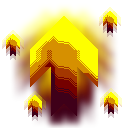
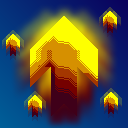
bootyfull cards

diff --git a/main.py b/main.py
@@ -49,7 +49,8 @@ BLACK = (0  ,0  ,0  )
 RED = (255  ,0  ,0  )
 GREEN = (0  ,255  ,0  )
 BLUE = (0  ,0  ,255  )
-line_text_size = "abcdefghijklmnopqrstu"
+BRIGHT_YELLOW = (250, 250, 135)
+line_text_size = "abcdefghijklmnopqrs"
 VOLUME_DO_JOGO = 1 # 0 a 1
 
 LISTA_DE_CARTAS = []
@@ -127,6 +128,7 @@ class obj_jogador(object):
         self.atk_delay = 16 # tempo inicial para o próximo ataque, em frames (meio segundo a 64 fps).
         self.knockback = 1.25 #knockback aplicado ao inimigo
         self.knockresi = 1 #resistência ao knockback: 1 = nenhuma resitência; 2 = 50% resistência; 3 = 66% de resistência e assim por diante.
+        self.dmgres = 1
         self.enemy = self #Plottwistico
         self.isAtacking = False  #está atacando?
         self.isCrouch = False #está agachado?
@@ -196,7 +198,7 @@ class obj_jogador(object):
         if self.invtime <= 0 or self.ATKESQUIVA:
             self.hspeed += knk[0]/self.knockresi
             self.vspeed += knk[1]/self.knockresi
-            self.Hp -= d
+            self.Hp -= d*self.dmgres
             self.unabletime = int( ( (knk[0]**2 + knk[1]**2)**(1/2) )*10/self.knockresi)
             self.invtime = self.unabletime * 5/3
             if self.NO_SEE == True:
@@ -599,11 +601,15 @@ class carta(object):
     def __init__(self,x,y,tipo_,id_):
         #Caracteristicas do obj definidas na criação
         self.x = x
+        self.x_ = x
         self.y = y
+        self.y_ = y
         self.id_ = id_
         self.width = 320
         self.height = 460
-        self.card_sprite = pg.Rect(self.x,self.y,self.width,self.height)
+        #pg.Rect(self.x,self.y,self.width,self.height)
+        self.card_sprite = pg.transform.scale(pg.image.load('Graphics/cards/card.png').convert_alpha(), (320, 460))
+        self.current_card = self.card_sprite
         self.sprite = pg.image.load(ctxt.CARDS_IMAGES.get(tipo_)).convert_alpha()
         self.tipo_ = tipo_
         self.txt = ctxt.CARDS_DESCRIPTIONS.get(tipo_)
@@ -614,31 +620,28 @@ class carta(object):
         #Ajeitando o texto
 
     def draw(self): #função que desenha o obj na tela
-
+        sc_ = (1 + (self.sc - 1)*(card_selected == self.id_))
         #Desenhando o fundo da carta
-        self.card_sprite.width = self.width*(1 + (self.sc - 1)*(card_selected == self.id_))
-        self.card_sprite.height = self.height*(1 + (self.sc - 1)*(card_selected == self.id_))
-        self.card_sprite.x = self.x - self.width*(self.sc - 1)*(card_selected == self.id_)/2
-        self.card_sprite.y = self.y - self.height*(self.sc - 1)*(card_selected == self.id_)/2
-        pg.draw.rect(window , WHITE ,self.card_sprite)
+        self.current_card = pg.transform.scale(self.card_sprite, (320*sc_, 460*sc_))
+        self.x = self.x_ - sc_/2
+        self.y = self.y_ - sc_/2
+        window.blit(self.current_card, (self.x, self.y))
 
         #Desenhando a imagem da carta
         if self.sprite != None:
 
             #Modifica as dimensões do sprite
-            sprite_sc = pg.transform.scale(self.sprite,
-            (int(self.sprite.get_width()*self.card_sprite.width/self.width),
-            int(self.sprite.get_height()*self.card_sprite.height/self.height)))
+            sprite_sc = pg.transform.scale(self.sprite, (self.sprite.get_width()*sc_*1.5, self.sprite.get_height()*sc_*1.5))
 
-            window.blit(sprite_sc, (self.card_sprite.x + self.card_sprite.width/2 - sprite_sc.get_width()/2,
-            self.card_sprite.y + self.card_sprite.height/3.2 - sprite_sc.get_height()/2))
+            window.blit(sprite_sc, (self.x + sc_*self.card_sprite.get_width()/2 - sprite_sc.get_width()/2,
+            self.y + sc_*self.card_sprite.get_height()/3.2 - sprite_sc.get_height()/2))
 
         #Desenhando a descrição da carta
-        fnt_sc = int((self.card_sprite.width/self.width) + (2 - self.sc)) - 1
+        fnt_sc = int((self.card_sprite.get_width()/self.width) + (2 - self.sc)) - 1
 
-        draw_text(self.txt,self.card_sprite.x + self.card_sprite.width/2,
-        self.card_sprite.y + self.card_sprite.height/2 + 70,
-        color_ = BLACK,font_ = fnt_comicsans[fnt_sc])
+        draw_text(self.txt,self.x + sc_*self.card_sprite.get_width()/2,
+        self.y + sc_*self.card_sprite.get_height()*3/5,
+        color_ = BRIGHT_YELLOW, font_ = fnt_comicsans[fnt_sc], centered_ = True, sc_ = sc_)
 
 class effect(object):
     def __init__(self,spr,x,y,alive_time,
@@ -672,7 +675,7 @@ class effect(object):
         else:
             window.blit(self.sprite, (self.x + camera.x, self.y + camera.y))
 
-def draw_text(txt_,x_,y_,font_ = fnt_comicsans[4],color_ = WHITE,centered_ = True):
+def draw_text(txt_,x_,y_,font_ = fnt_comicsans[4],color_ = WHITE,centered_ = True, sc_ = 1):
     #if "\n" in txt_:
 
         #IT HAS LINE BREAKS; (╯°□°)╯︵ ┻━┻
@@ -682,7 +685,7 @@ def draw_text(txt_,x_,y_,font_ = fnt_comicsans[4],color_ = WHITE,centered_ = Tru
         i = 0 #n line
         str_ = "" #current string with no line breaks
         f_str_ = []
-        print('startloop')
+        #print('startloop')
         g = 0
         while i-g <= t_:
             '''
@@ -701,17 +704,19 @@ def draw_text(txt_,x_,y_,font_ = fnt_comicsans[4],color_ = WHITE,centered_ = Tru
                 str_ = ' '.join(s)
                 #print(str_)
                 if str_ != '':
-                    f_str_.append(font_.render(str_, False, color_))
+                    f = font_.render(str_, False, color_)
+                    f_str_.append(pg.transform.scale(f, (f.get_width()*sc_, f.get_height()*sc_)))
                 str_ = ''   
             else:
                 m = txt_[i-g]
                 str_ += m
                 #print("added '{}', string total = ".format(m) + str_)     
             i+=1
-        f_str_.append(font_.render(str_, False, color_))
+        f = font_.render(str_, False, color_)
+        f_str_.append(pg.transform.scale(f, (f.get_width()*sc_, f.get_height()*sc_)))
         #print("string final= " + str_)
         for j in range(len(f_str_)):
-            window.blit(f_str_[j],(x_ - f_str_[j].get_width()/2, y_ - f_str_[j].get_height()/2 + fnt_comicsans_Vspace[fnt_comicsans.index(font_)]*(j) ))
+            window.blit(f_str_[j],(x_ - f_str_[j].get_width()/2, y_ - f_str_[j].get_height()/2 + fnt_comicsans_Vspace[fnt_comicsans.index(font_)]*(j)*sc_ ))
         '''
         for j in range(len(f_str_)-1):
             window.blit(f_str_[j],(x_,y_ + fnt_comicsans_Vspace[fnt_comicsans.index(font_)]*j))
@@ -837,6 +842,7 @@ def apply_card_effect(player_,card_):
         player_.APLIES_MORE_KNOCKBACK *= ctxt.APLIES_MORE_KNOCKBACK
     if card_.tipo_ == "RECEIVES_LESS_KNOCKBACK":
         player_.knockresi *= ctxt.RECEIVES_LESS_KNOCKBACK
+        player_.dmgres *= 1-ctxt.RECEIVES_LESS_DAMAGE
     if card_.tipo_ == "SURVIVAL":
         player_.SURVIVAL_ATK_MULTPLIER *= ctxt.SURVIVAL_ATK_MULTPLIER
     if card_.tipo_ == "SPIKES":

diff --git a/cards_txt.py b/cards_txt.py
@@ -25,10 +25,11 @@ ATKESQUIVA_INCREASE = 2
 CARDS_NOTSTACKABLE.append('ATK_WHILE_DASHING') #NOT STACKABLE !!!!!!!!!!
 
 #Dá mais knockback
-APLIES_MORE_KNOCKBACK = 1.4
+APLIES_MORE_KNOCKBACK = 1.75
 
 #Recebe menos knockback
 RECEIVES_LESS_KNOCKBACK = 1.5
+RECEIVES_LESS_DAMAGE = 0.1
 
 #SURVIVAL (x% de vida -> ataque ++)
 SURVIVAL_MIN_HP = 0.2
@@ -50,9 +51,9 @@ CARDS_DESCRIPTIONS = {
     'BLEEDING': "Ataques fazem inimigos sangrarem por {} segundos.".format(round(BLEEDING_TIME/60)),
     'ATK_WHILE_DASHING': "Você pode atacar enquanto usa a esquiva.",
     'ATKESQUIVA': "Aumenta o dano do primeiro ataque depois de usar uma esquiva, mas sua esquiva não te deixa invulnerável.",
-    'APLIES_MORE_KNOCKBACK': "Ataques aplicam mais repulsão.",
-    'RECEIVES_LESS_KNOCKBACK': "Recebe menos repulsão.",
-    'SURVIVAL': "Ataque aumenta em {} % se você estiver com vida baixa.".format(round(100*(SURVIVAL_ATK_MULTPLIER - 1))),
+    'APLIES_MORE_KNOCKBACK': "Ataques aplicam {}% a mais repulsão.".format(round(100*(APLIES_MORE_KNOCKBACK - 1))),
+    'RECEIVES_LESS_KNOCKBACK': "Recebe {}% a menos repulsão e {}% a menos de dano.".format(round(100*(RECEIVES_LESS_KNOCKBACK-1)), round(100*RECEIVES_LESS_DAMAGE)),
+    'SURVIVAL': "Ataque aumenta em {}% se você estiver com vida baixa.".format(round(100*(SURVIVAL_ATK_MULTPLIER - 1))),
     'SPIKES': "Espinhos surgem no local aonde você pulou.",
     'NO_SEE': "Você fica invisível enquanto não levar dano.",
     'DJUMP':  "Ganha um pulo extra mas seu pulo fica mais fraco."
